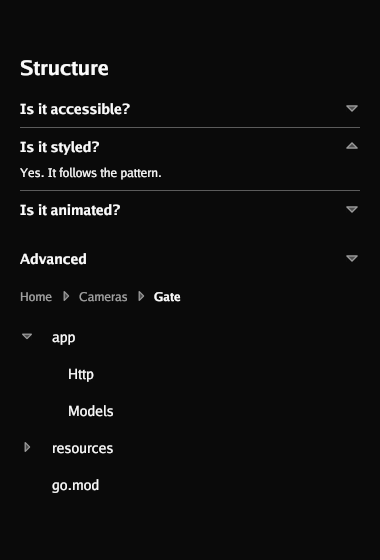
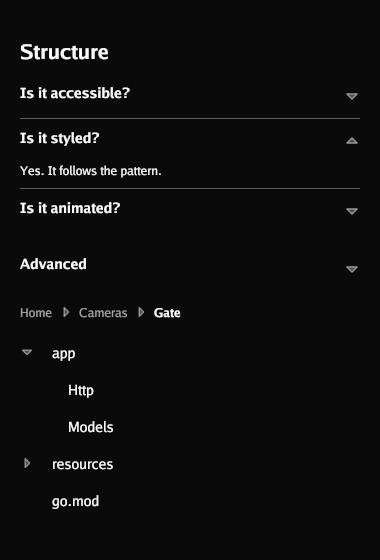
Collapsible and accordion: wrap a long summary, and make the line 44 points high
A summary longer than a line was cut at the edge with an ellipsis, and the words
after it were not anywhere. It wraps. The line a finger presses was 33 points
high; it is at least 44.

diff --git a/frame/overlay_phone_golden_test.go b/frame/overlay_phone_golden_test.go
@@ -25,6 +25,8 @@ func TestTheOverlaysFitAPhone(t *testing.T) {
 		{screen: screen{name: "tabs-phone", width: 390, height: 260, draw: tabsPhone}},
 		{screen: screen{name: "menu-flip-phone", width: 390, height: 520, draw: menuAtTheFootOfAForm}},
 		{screen: screen{name: "menu-capped-phone", width: 390, height: 400, draw: menuLongerThanTheRoom}},
+		{screen: screen{name: "disclosure-phone", width: 390, height: 400, draw: disclosurePhone}},
+		{screen: screen{name: "carousel-phone", width: 390, height: 260, draw: carouselPhone}},
 		{screen: screen{name: "menu-phone", width: 390, height: 300, draw: menuRowScreen}},
 		{screen: screen{name: "popover-phone", width: 390, height: 260, draw: popoverRowScreen}},
 	} {
@@ -292,6 +294,50 @@ func menuLongerThanTheRoom() ayra.Widget {
 			return widget.MenuProps{Entries: entries, Width: 220}.Layout(c.With(gtx), &menu, func(c ayra.Context) ayra.Dimensions {
 				return widget.ButtonProps{Label: "Câmeras", Variant: widget.Outline}.Layout(c, &trigger)
 			})
+		})
+	}
+}
+
+// disclosurePhone is a collapsible and an accordion whose summaries are longer
+// than a line of a phone.
+func disclosurePhone() ayra.Widget {
+	var open, closed widget.Disclosure
+	open.Open()
+	var acc widget.Accordion
+	acc.Open(1)
+	return func(c ayra.Context) ayra.Dimensions {
+		return layout.Inset{Top: 16, Left: 16, Right: 16}.Layout(c.Context, func(gtx layout.Context) layout.Dimensions {
+			gtx.Constraints.Min = image.Point{}
+			inner := c.With(gtx)
+			return layout.Flex{Axis: layout.Vertical}.Layout(gtx,
+				layout.Rigid(func(gtx layout.Context) layout.Dimensions {
+					return widget.CollapsibleProps{Summary: "Configurações avançadas da câmera do portão principal da garagem"}.
+						Layout(inner.With(gtx), &open, line("As leituras continuam no histórico.", widget.Body, false))
+				}),
+				layout.Rigid(func(gtx layout.Context) layout.Dimensions {
+					return widget.CollapsibleProps{Summary: "Fechada"}.Layout(inner.With(gtx), &closed, line("x", widget.Body, false))
+				}),
+				layout.Rigid(layout.Spacer{Height: 16}.Layout),
+				layout.Rigid(func(gtx layout.Context) layout.Dimensions {
+					return widget.AccordionProps{Sections: []string{"Câmeras do portão principal", "Leituras de placas dos últimos trinta dias", "Faturamento e cobrança pelo Peráta da organização"}}.
+						Layout(inner.With(gtx), &acc, func(int) ayra.Widget { return line("Onze câmeras leem placas no portão.", widget.Body, false) })
+				}),
+			)
+		})
+	}
+}
+
+// carouselPhone is a carousel with its steps on a phone: arrows, not words, and
+// the slide left the room.
+func carouselPhone() ayra.Widget {
+	var one widget.Carousel
+	return func(c ayra.Context) ayra.Dimensions {
+		return layout.Inset{Top: 16, Left: 16, Right: 16}.Layout(c.Context, func(gtx layout.Context) layout.Dimensions {
+			gtx.Constraints.Min = image.Point{}
+			return widget.CarouselProps{Count: 4, Arrows: true, Dots: true, PreviousLabel: "Anterior", NextLabel: "Próxima"}.
+				Layout(c.With(gtx), &one, func(c ayra.Context, i int) ayra.Dimensions {
+					return line("Portão principal, leituras ao vivo", widget.Heading, true)(c)
+				})
 		})
 	}
 }

diff --git a/widget/disclosure.go b/widget/disclosure.go
@@ -93,9 +93,12 @@ func summaryRow(c ayra.Context, state *Disclosure, summary string) ayra.Dimensio
 	return state.click.Layout(c.Context, func(gtx layout.Context) layout.Dimensions {
 		inner := c.With(gtx)
 		return layout.Inset{Top: 8, Bottom: 8}.Layout(gtx, func(gtx layout.Context) layout.Dimensions {
+			// At least 44 points with the padding, and as many lines as the
+			// words need: a long summary was cut at the edge with "...".
+			gtx.Constraints.Min.Y = c.Dp(touchTarget) - c.Dp(unit.Dp(16))
 			return layout.Flex{Axis: layout.Horizontal, Alignment: layout.Middle}.Layout(gtx,
 				layout.Flexed(1, func(gtx layout.Context) layout.Dimensions {
-					return drawText(inner.With(gtx), summary, unit.Sp(c.Theme.Type.Body), c.Theme.Colours.Foreground, 1, text.Start, semibold())
+					return drawText(inner.With(gtx), summary, unit.Sp(c.Theme.Type.Body), c.Theme.Colours.Foreground, 0, text.Start, semibold())
 				}),
 				layout.Rigid(layout.Spacer{Width: 8}.Layout),
 				layout.Rigid(func(gtx layout.Context) layout.Dimensions {
@@ -177,9 +180,10 @@ func (p AccordionProps) layout(c ayra.Context, state *Accordion, content func(in
 			inner := c.With(gtx)
 			return state.clicks[index].Layout(inner.Context, func(gtx layout.Context) layout.Dimensions {
 				return layout.Inset{Top: 10, Bottom: 10}.Layout(gtx, func(gtx layout.Context) layout.Dimensions {
+					gtx.Constraints.Min.Y = c.Dp(touchTarget) - c.Dp(unit.Dp(20))
 					return layout.Flex{Axis: layout.Horizontal, Alignment: layout.Middle}.Layout(gtx,
 						layout.Flexed(1, func(gtx layout.Context) layout.Dimensions {
-							return drawText(inner.With(gtx), summary, unit.Sp(c.Theme.Type.Body), c.Theme.Colours.Foreground, 1, text.Start, semibold())
+							return drawText(inner.With(gtx), summary, unit.Sp(c.Theme.Type.Body), c.Theme.Colours.Foreground, 0, text.Start, semibold())
 						}),
 						layout.Rigid(layout.Spacer{Width: 8}.Layout),
 						layout.Rigid(func(gtx layout.Context) layout.Dimensions {

diff --git a/widget/disclosure_phone_test.go b/widget/disclosure_phone_test.go
@@ -1,0 +1,47 @@
+package widget_test
+
+import (
+	"testing"
+
+	"github.com/arandu-io/ayra"
+	"github.com/arandu-io/ayra/widget"
+)
+
+const longSummary = "Configurações avançadas da câmera do portão principal da garagem do subsolo"
+
+// TestASectionSummaryIsAtLeast44PointsHigh: the line a finger presses was 33.
+func TestASectionSummaryIsAtLeast44PointsHigh(t *testing.T) {
+	p := phone(300)
+	var d widget.Disclosure
+	dims := p.draw(func(c ayra.Context) ayra.Dimensions {
+		return widget.CollapsibleProps{Summary: "Fechada"}.Layout(c, &d, func(c ayra.Context) ayra.Dimensions { return ayra.Dimensions{} })
+	})
+	if dims.Size.Y < 44 {
+		t.Errorf("the summary is %d points high, want at least 44", dims.Size.Y)
+	}
+
+	var a widget.Accordion
+	a.Open(-1)
+	dims = p.draw(func(c ayra.Context) ayra.Dimensions {
+		return widget.AccordionProps{Sections: []string{"Uma"}}.Layout(c, &a, nil)
+	})
+	if dims.Size.Y < 44 {
+		t.Errorf("the accordion's section is %d points high, want at least 44", dims.Size.Y)
+	}
+}
+
+// TestALongSummaryWrapsInsteadOfBeingCut: it was cut at the edge with "...", and
+// the words after it could not be read anywhere.
+func TestALongSummaryWrapsInsteadOfBeingCut(t *testing.T) {
+	p := phone(400)
+	var d widget.Disclosure
+	short := p.draw(func(c ayra.Context) ayra.Dimensions {
+		return widget.CollapsibleProps{Summary: "Curta"}.Layout(c, &d, func(c ayra.Context) ayra.Dimensions { return ayra.Dimensions{} })
+	})
+	long := p.draw(func(c ayra.Context) ayra.Dimensions {
+		return widget.CollapsibleProps{Summary: longSummary}.Layout(c, &d, func(c ayra.Context) ayra.Dimensions { return ayra.Dimensions{} })
+	})
+	if long.Size.Y <= short.Size.Y {
+		t.Errorf("a summary of 75 characters is %d points high, as high as one of 5 (%d): it is cut, not wrapped", long.Size.Y, short.Size.Y)
+	}
+}
